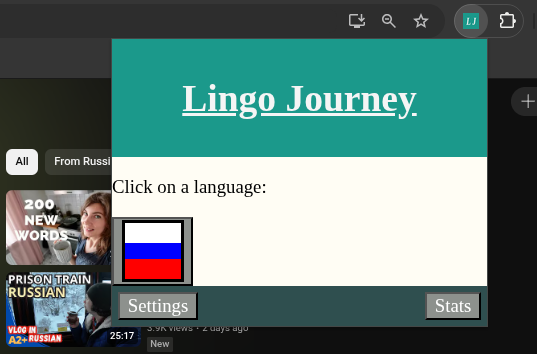
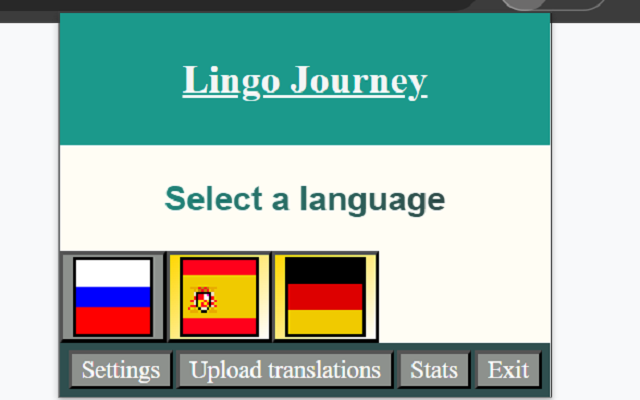
FixDisplayFreeTranslationWarning

diff --git a/background/background.js b/background/background.js
@@ -216,8 +216,10 @@ async function LoadTranslations(freeTranslationFileName, paidTranslationFileName
   isFreeTranslationList = false;
   //Search indexdb for paid translation file if so set translationFileString
   let translationFileString = await LoadFromDataBase(paidTranslationFileName);
-  if(translationFileString === undefined){
-    //This means paid translations are not installed therefore read from disk    
+  isUsingFreeTranslationList = false;
+  if(translationFileString === undefined){    
+    //This means paid translations are not installed therefore read from disk  
+    isUsingFreeTranslationList = true;  
     let filePath = "LanguageData/"+freeTranslationFileName;
     console.log("Loading free translations from disk", filePath);
     let link = chrome.runtime.getURL(filePath);

diff --git a/translationWindow/translationWindow.html b/translationWindow/translationWindow.html
@@ -38,7 +38,8 @@
         <p class="errorColour">
             <b>
                 You are using the free translation list, if some words dont have translations you can
-                download a more complete translation list from <a href="https://patreon.com/LingoJourney">here</a>.
+                download a more complete translation list from <a href="https://patreon.com/LingoJourney">here</a> under 
+                the shop tab.
             </b> 
         </p>
     </div>  

diff --git a/translationWindow/translationWindowScript.js b/translationWindow/translationWindowScript.js
@@ -43,7 +43,7 @@ function AttachClickFunctionToButtons(){
     document.getElementById("ignoreButton").onclick = function(){OnWordStatusButtonClicked("ignore");};
 }
 function ShowMessageIfFreeTranslationList(){
-    if(isUsingFreeTranslationList === true){
+    if(isUsingFreeTranslationList == true){
         document.getElementById("UsingFreeTranslationList").hidden = false;
     }
 }
